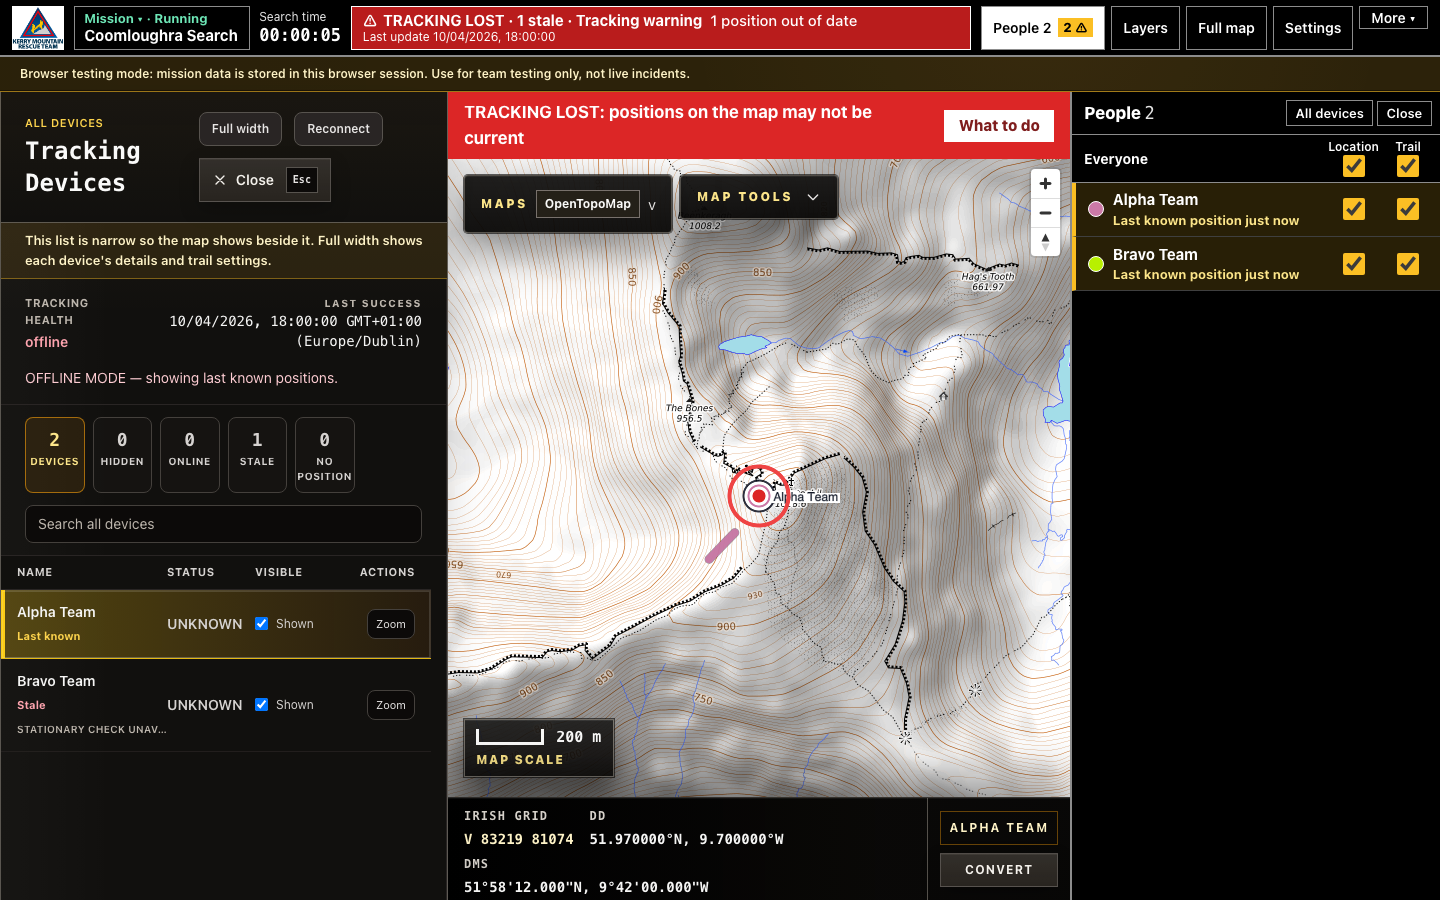
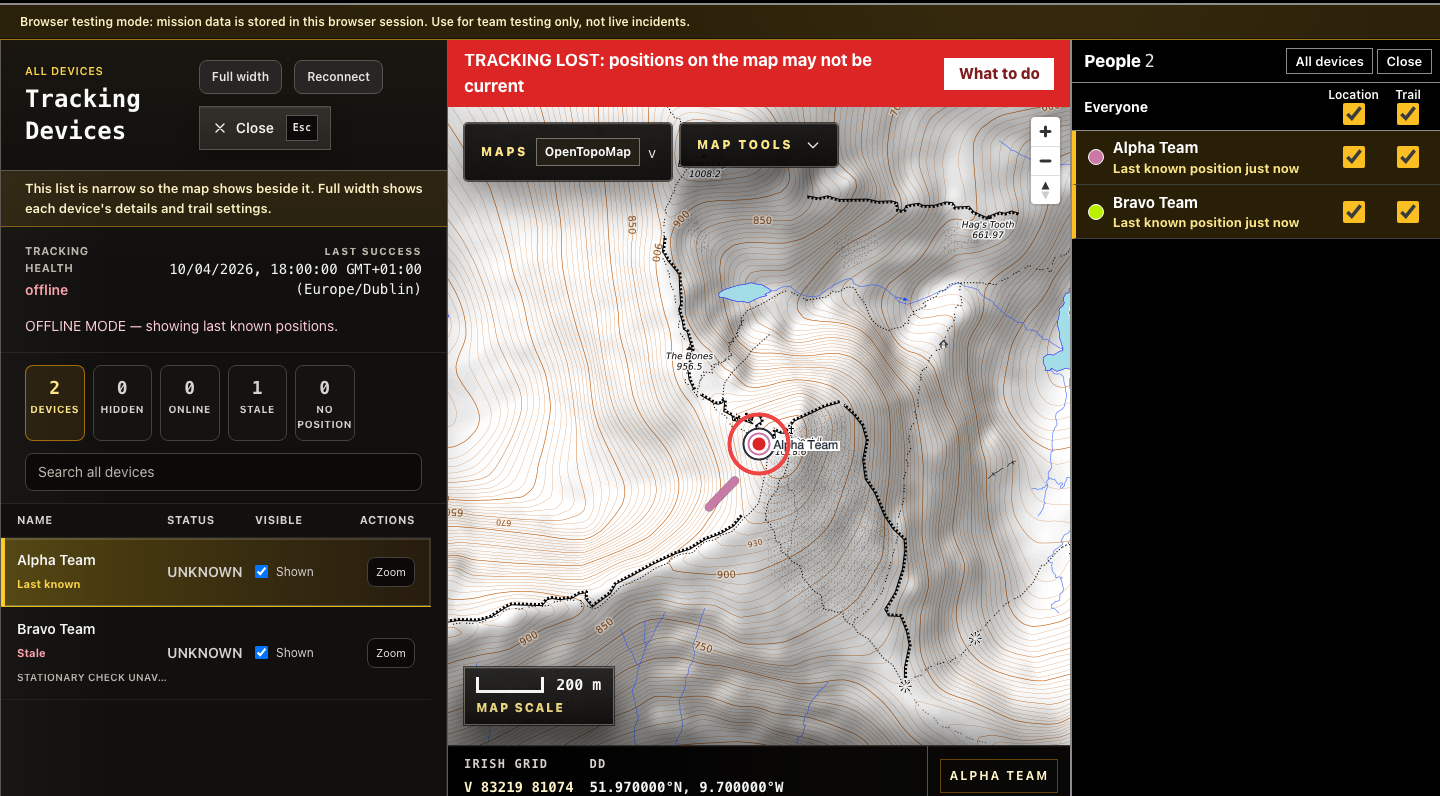
fix(map): bar says Map centre before the pointer and re-reads it on camera moves [DON-372]
Codex round 1:
- The startup map centre was labelled Cursor position. The bar now says
  Map centre until the pointer is over the map, and keeps that reading on
  the centre as the map moves.
- With the pointer resting on the map, a camera move (Go to, wheel zoom)
  re-reads the ground under it instead of leaving the old spot on the bar.
- The manual's docked All devices image showed ALPHA TEAM beside the grid;
  the bar is cropped out of it and its alt text adjusted.
- New E2E: Go to from People, then the pointer elsewhere, checks the bar's
  grid is the ground under the pointer and names nobody; startup Map centre
  and the resting-pointer re-read are checked in map.spec. The recovery test
  asserts the target was queued and then expired; the marker helper needs
  the dot layer and tolerates a missing style.

diff --git a/public/manual/index.html b/public/manual/index.html
@@ -524,7 +524,7 @@
             <tbody>
               <tr><td><strong>Top bar</strong></td><td>From the left: the <strong>Mission</strong> button (name and state: <em>Start a mission</em>, <em>Running</em>, <em>PAUSED</em> or <em>Needs resuming</em>; press it to pause, finish or add people) with the search clock; the <strong>tracking line</strong>, which says in plain words whether positions are arriving and when the last one did (press it for what to do). When something is wrong it starts with a short word for each problem, most urgent first: people (out of date, not moving, rejected reports) before connection, mission record, history and cache problems, for example <em>2 stale · 1 rejected · History failed</em>; if they do not all fit it ends <em>+2 more</em>. Press it for the full words; <strong>People</strong>, <strong>Layers</strong> and <strong>Full map</strong>; then <strong>Weather</strong>, <strong>Settings</strong> and <strong>More</strong> (Review and replay, Diagnostics, Help, Theme). On narrower screens the team logo is hidden to leave room for the tracking line.</td></tr>
               <tr><td><strong>Alarm bar</strong></td><td>A flashing red bar across the top of the map when the map cannot be trusted: tracking lost, the mission paused, or the mission record failing. It stays until the cause is fixed. <strong>What to do</strong> opens the Tracking panel. If Settings, Diagnostics or All devices is open, it closes that first; Settings asks before losing unsaved changes, and Keep editing leaves it open.</td></tr>
-              <tr><td><strong>Map</strong></td><td>Top left: <strong>Maps</strong> (which map) and <strong>Map Tools</strong> (draw, measure). Map Tools stops above the map scale and the coordinate bar and scrolls inside on a small screen. Bottom: scale, and the <strong>Cursor position</strong> (where the mouse is, never a person) in <strong>DD</strong>, <strong>Irish Grid</strong> and <strong>DMS</strong>, with a <strong>Convert</strong> button.</td></tr>
+              <tr><td><strong>Map</strong></td><td>Top left: <strong>Maps</strong> (which map) and <strong>Map Tools</strong> (draw, measure). Map Tools stops above the map scale and the coordinate bar and scrolls inside on a small screen. Bottom: scale, and the <strong>Cursor position</strong> (where the mouse is, never a person; <strong>Map centre</strong> until you move the mouse over the map) in <strong>DD</strong>, <strong>Irish Grid</strong> and <strong>DMS</strong>, with a <strong>Convert</strong> button.</td></tr>
               <tr><td><strong>Side panel</strong></td><td>One panel at a time, on the right: <strong>People</strong> (who is out, who needs a look), <strong>Layers</strong>, <strong>Tracking</strong> (opened from the tracking line) or <strong>Mission</strong> (opened from the Mission button). <strong>Close</strong> or <strong>Full map</strong> gives the map the whole width. With People closed, anyone who needs a look is listed over the map. Before Start, while a mission waits to be resumed and after Finish, <strong>Layers</strong> (with GPX and helicopters) and <strong>Tracking</strong> still open; <strong>People</strong> is greyed out until a mission is running.</td></tr>
             </tbody>
           </table>
@@ -812,7 +812,7 @@
             <figcaption>Open it with <strong>All devices</strong> at the top of the People panel. Close it with <strong>Close</strong> or Esc.</figcaption>
           </figure>
           <figure class="screenshot">
-            <img src="assets/devices-docked.png" alt="All devices narrowed to a strip on the left after Zoom, with the map moved beside it, the device ringed in the middle, the coordinate readouts in full below, and Stale written under a stale device's name" />
+            <img src="assets/devices-docked.png" alt="All devices narrowed to a strip on the left after Zoom, with the map moved beside it, the device ringed in the middle, and Stale written under a stale device's name" />
             <figcaption>After <strong>Zoom</strong>: the list narrows and the device is ringed on the map beside it. A stale position says <em>Stale</em> under the name.</figcaption>
           </figure>
           <ul>
@@ -943,8 +943,9 @@
           <p>
             The strip at the bottom, headed <strong>Cursor position</strong>, shows the position under the mouse
             cursor as <strong>DD</strong> (latitude/longitude), <strong>Irish Grid</strong> (TM65) and
-            <strong>DMS</strong>. It is never a person's position, even after you go to someone from People:
-            do not read it out as where a person is. Outside Ireland
+            <strong>DMS</strong>. Before you move the mouse over the map it is headed <strong>Map centre</strong>
+            and shows the middle of the map instead. It is never a person's position, even after you go to
+            someone from People: do not read it out as where a person is. Outside Ireland
             the grid field says <strong>Outside Ireland</strong> rather than inventing a reference.
             The <strong>Map scale</strong> bar at the bottom left is split into black and white blocks, like the scale on an
             OS map. The numbers under it mark round distances from 0, for example <strong>0 · 250 · 500 m</strong>, or

diff --git a/tests/e2e/devices-workspace.spec.ts b/tests/e2e/devices-workspace.spec.ts
@@ -37,6 +37,35 @@ test.describe('M19 devices workspace', () => {
     await expectCoordinateBarNamesNobody(page, 'Alpha Team')
   })
 
+  test('never shows a person\'s name beside the cursor\'s grid after Go to from People [DON-372]', async ({ page }) => {
+    await page.getByRole('button', { name: 'Go to Alpha Team on the map' }).click()
+    await expectMapTargetAt(page, [-9.74406, 51.99917])
+    await expect.poll(() => page.evaluate(() => window.__SARTRACKER_MAP__!.isMoving())).toBe(false)
+
+    // Point well away from Alpha Team, then read the bar.
+    const canvas = await page.locator('.maplibregl-canvas').boundingBox()
+    expect(canvas).not.toBeNull()
+    const pointer = { x: canvas!.x + canvas!.width * 0.85, y: canvas!.y + canvas!.height * 0.3 }
+    await page.mouse.move(pointer.x, pointer.y)
+    const grids = await page.evaluate(async ({ x, y }) => {
+      const { formatIrishGridReference, wgs84ToTM65 } = await import('/src/lib/coordinates.ts')
+      const map = window.__SARTRACKER_MAP__!
+      const box = map.getCanvas().getBoundingClientRect()
+      const cursor = map.unproject([x - box.left, y - box.top])
+      return {
+        cursor: formatIrishGridReference(...wgs84ToTM65(cursor.lat, cursor.lng)),
+        alpha: formatIrishGridReference(...wgs84ToTM65(51.99917, -9.74406)),
+      }
+    }, pointer)
+    expect(grids.cursor).not.toBe(grids.alpha)
+    // The bar shows the ground under the pointer (within a pixel's few metres), not Alpha Team's grid.
+    await expect.poll(async () => gridDistanceMetres(await page.getByTestId('coords-grid').innerText(), grids.cursor))
+      .toBeLessThan(10)
+    expect(gridDistanceMetres(grids.cursor, grids.alpha)).toBeGreaterThan(100)
+    await expectCoordinateBarNamesNobody(page, 'Alpha Team')
+    await expect(page.getByTestId('coordinate-display')).not.toContainText(grids.alpha)
+  })
+
   test('unmounts the workspace immediately when the operator closes it [DON-260]', async ({
     page,
   }) => {
@@ -1167,6 +1196,19 @@ async function seedTrackingWorkspace(page: import('@playwright/test').Page) {
  * Once the camera settles, says whether a [longitude, latitude] is drawn inside
  * the map canvas and right of the docked All devices list (DON-368).
  */
+/** Distance in metres between two same-square Irish Grid references such as "V 81215 84740". */
+function gridDistanceMetres(first: string, second: string): number {
+  const parse = (reference: string) => {
+    const match = /^([A-Z]) (\d{5}) (\d{5})$/u.exec(reference.trim())
+    if (match === null) throw new Error(`Not a 10-figure grid reference: ${reference}`)
+    return { square: match[1], easting: Number(match[2]), northing: Number(match[3]) }
+  }
+  const a = parse(first)
+  const b = parse(second)
+  if (a.square !== b.square) return Number.POSITIVE_INFINITY
+  return Math.hypot(a.easting - b.easting, a.northing - b.northing)
+}
+
 async function targetPlacement(page: import('@playwright/test').Page, target: [number, number]): Promise<string> {
   return page.evaluate((lngLat) => {
     const map = (window as Window & { __SARTRACKER_MAP__: import('maplibre-gl').Map }).__SARTRACKER_MAP__

diff --git a/src/components/coordinate-bar.tsx b/src/components/coordinate-bar.tsx
@@ -12,6 +12,14 @@ import { useCoordinateToolStore } from '../features/coordinates/coordinate-tool-
 type CoordinateBarProps = {
   readonly latitude: number | null
   readonly longitude: number | null
+  /** Whose position the readouts are: under the pointer, or the map centre before any pointer. */
+  readonly source: 'cursor' | 'map-centre'
+}
+
+/** Caption naming whose position the readouts are, so none can be taken for a person's (DON-372). */
+const READOUT_OWNER_CAPTION: Record<CoordinateBarProps['source'], string> = {
+  cursor: 'Cursor position',
+  'map-centre': 'Map centre',
 }
 
 /** Height of the coordinate bar; map chrome above it (scale, Map Tools) keeps clear of it. */
@@ -24,12 +32,14 @@ type CoordinateDisplayParts = {
 }
 
 /**
- * Bottom strip showing the position under the cursor (DD, Irish Grid, DMS) and the Convert button.
- * Every readout here belongs to the cursor, never to a person or marker: no name may sit beside
+ * Bottom strip showing the position under the cursor (DD, Irish Grid, DMS) and the Convert button;
+ * before the pointer is over the map it shows the map centre and says so. Every readout here
+ * belongs to the cursor or map centre, never to a person or marker: no name may sit beside
  * these values, or a coordinator could read the cursor's grid over the radio as someone's
  * position (DON-372). A person's own position belongs with that person, with its age.
  */
-export function CoordinateBar({ latitude, longitude }: CoordinateBarProps) {
+export function CoordinateBar({ latitude, longitude, source }: CoordinateBarProps) {
+  const ownerCaption = READOUT_OWNER_CAPTION[source]
   const openDialog = useCoordinateToolStore((state) => state.openDialog)
   const barRef = useRef<HTMLDivElement>(null)
 
@@ -57,7 +67,7 @@ export function CoordinateBar({ latitude, longitude }: CoordinateBarProps) {
   const dmsDisplay = displays?.dmsDisplay ?? null
   const content =
     wgs84Display !== null && gridDisplay !== null && dmsDisplay !== null
-      ? `Cursor position: ${wgs84Display}  |  ${gridDisplay}  |  ${dmsDisplay}`
+      ? `${ownerCaption}: ${wgs84Display}  |  ${gridDisplay}  |  ${dmsDisplay}`
       : '—'
 
   return (
@@ -72,13 +82,12 @@ export function CoordinateBar({ latitude, longitude }: CoordinateBarProps) {
         <div aria-hidden="true" className="sar-coordinate-spacer" />
 
         <div className="flex min-w-0 flex-col justify-center">
-          {/* Names whose position the readouts are, so none can be taken for a person's (DON-372). */}
           <p
             aria-hidden="true"
             className="sar-meta-label sar-coordinate-label px-4 text-center leading-none max-[1320px]:px-3"
             data-testid="coordinate-readout-owner"
           >
-            Cursor position
+            {ownerCaption}
           </p>
           <div
             className="sar-coordinate-readouts flex min-w-0 items-center justify-center gap-4 overflow-hidden px-4 max-[1320px]:gap-2 max-[1320px]:px-3"

diff --git a/tests/e2e/helpers/map-target.ts b/tests/e2e/helpers/map-target.ts
@@ -1,17 +1,25 @@
 import { expect, type Page } from '@playwright/test'
 
 /**
- * Reads the go-to target marker the map is drawing, as [longitude, latitude], or null when none.
- * The coordinate bar no longer names the target (DON-372), so the marker itself is the evidence.
+ * Reads the go-to target marker the map is drawing, as [longitude, latitude], or null when none
+ * is drawn: no map, no style, no marker layer or an empty marker source. The coordinate bar no
+ * longer names the target (DON-372), so the drawn marker itself is the evidence.
  */
 export async function mapTargetMarker(page: Page): Promise<[number, number] | null> {
   return page.evaluate(() => {
     const map = window.__SARTRACKER_MAP__
-    const source = map?.getSource('coordinate-target') as { serialize?: () => { data?: unknown } } | undefined
-    const data = source?.serialize?.().data as GeoJSON.FeatureCollection | undefined
-    const point = data?.features?.[0]?.geometry
-    if (point === undefined || point.type !== 'Point') return null
-    return [point.coordinates[0]!, point.coordinates[1]!]
+    if (map === undefined) return null
+    try {
+      if (map.getLayer('coordinate-target-dot') === undefined) return null
+      const source = map.getSource('coordinate-target') as { serialize?: () => { data?: unknown } } | undefined
+      const data = source?.serialize?.().data as GeoJSON.FeatureCollection | undefined
+      const point = data?.features?.[0]?.geometry
+      if (point === undefined || point.type !== 'Point') return null
+      return [point.coordinates[0]!, point.coordinates[1]!]
+    } catch {
+      // The style can be missing during a basemap change; that is "no marker drawn".
+      return null
+    }
   })
 }
 
@@ -25,8 +33,11 @@ export async function expectMapTargetAt(page: Page, coordinate: [number, number]
   }, { timeout: 10_000 }).toBe(true)
 }
 
-/** The bar's readouts belong to the cursor: no person or target name may sit beside them (DON-372). */
+/**
+ * The bar's readouts belong to the cursor (or the map centre before any pointer): no person or
+ * target name may sit beside them, and the bar says whose position it shows (DON-372).
+ */
 export async function expectCoordinateBarNamesNobody(page: Page, name: string): Promise<void> {
   await expect(page.getByTestId('coordinate-display')).not.toContainText(name, { ignoreCase: true })
-  await expect(page.getByTestId('coordinate-readout-owner')).toHaveText('Cursor position')
+  await expect(page.getByTestId('coordinate-readout-owner')).toHaveText(/^(Cursor position|Map centre)$/u)
 }

diff --git a/src/features/map/use-map-instance.ts b/src/features/map/use-map-instance.ts
@@ -33,11 +33,17 @@ import { recordDiagnosticEvent } from '../diagnostics/diagnostic-event-log'
 export type HoverCoordinate = {
   readonly latitude: number | null
   readonly longitude: number | null
+  /**
+   * Whose position this is: the ground under the pointer, or the map centre before the pointer
+   * has been over the map. The bar says which, so neither is read out as a person's (DON-372).
+   */
+  readonly source: 'cursor' | 'map-centre'
 }
 
 const EMPTY_HOVER_COORDINATE: HoverCoordinate = {
   latitude: null,
   longitude: null,
+  source: 'cursor',
 }
 
 export type MapInstanceController = {
@@ -208,11 +214,14 @@ export function useMapInstance(): MapInstanceController {
 
     map.addControl(new maplibregl.NavigationControl({ visualizePitch: true }), 'top-right')
     map.on('load', () => {
+      // Until the pointer is over the map, the bar shows the map centre and says so.
       const center = map.getCenter()
-      setHoverCoordinate({
+      pendingHoverCoordinateRef.current = {
         latitude: center.lat,
         longitude: center.lng,
-      })
+        source: 'map-centre',
+      }
+      setHoverCoordinate(pendingHoverCoordinateRef.current)
     })
     map.on('idle', () => {
       if (styleFailureRef.current !== null) return
@@ -269,14 +278,31 @@ export function useMapInstance(): MapInstanceController {
       }
       hoverCoordinateFrameRef.current = window.requestAnimationFrame(publishPendingHoverCoordinate)
     }
+    // Where the pointer rests on the map, so a camera move (Go to, zoom) re-reads the ground under
+    // it instead of leaving the previous spot on the bar as the cursor position (DON-372).
+    let pointerPoint: maplibregl.Point | null = null
     map.on('mousemove', (event) => {
+      pointerPoint = event.point
       scheduleHoverCoordinate({
         latitude: event.lngLat.lat,
         longitude: event.lngLat.lng,
+        source: 'cursor',
       })
     })
     map.on('mouseleave', () => {
+      pointerPoint = null
       scheduleHoverCoordinate(EMPTY_HOVER_COORDINATE)
+    })
+    map.on('move', () => {
+      if (pointerPoint !== null) {
+        const ground = map.unproject(pointerPoint)
+        scheduleHoverCoordinate({ latitude: ground.lat, longitude: ground.lng, source: 'cursor' })
+        return
+      }
+      if (pendingHoverCoordinateRef.current.source === 'map-centre') {
+        const center = map.getCenter()
+        scheduleHoverCoordinate({ latitude: center.lat, longitude: center.lng, source: 'map-centre' })
+      }
     })
 
     mapRef.current = map

diff --git a/tests/unit/coordinate-bar.test.ts b/tests/unit/coordinate-bar.test.ts
@@ -22,7 +22,7 @@ describe('CoordinateBar', () => {
   })
 
   it('keeps operator coordinates visible without low-use CRS cells', () => {
-    render(React.createElement(CoordinateBar, { latitude: 52.274681, longitude: -9.530912 }))
+    render(React.createElement(CoordinateBar, { latitude: 52.274681, longitude: -9.530912, source: 'cursor' }))
 
     expect(text('[data-testid="coordinate-display"]')).toContain('52.274681')
     expect(text('[data-testid="coordinate-display"]')).toContain('52°16')
@@ -39,7 +39,7 @@ describe('CoordinateBar', () => {
 
   it('renders a safe placeholder instead of throwing for impossible coordinate props', () => {
     expect(() =>
-      render(React.createElement(CoordinateBar, { latitude: 95, longitude: -190 })),
+      render(React.createElement(CoordinateBar, { latitude: 95, longitude: -190, source: 'cursor' })),
     ).not.toThrow()
 
     expect(text('[data-testid="coordinate-display"]')).toContain('—')
@@ -49,7 +49,7 @@ describe('CoordinateBar', () => {
   it('never puts a selected person\'s name beside the cursor\'s grid reference [DON-372]', () => {
     // Searcher 01 is selected at their stored position; the pointer is somewhere else.
     act(() => useMapTargetStore.getState().queueTarget(51.99917, -9.74406, 'Searcher 01'))
-    render(React.createElement(CoordinateBar, { latitude: 52.274681, longitude: -9.530912 }))
+    render(React.createElement(CoordinateBar, { latitude: 52.274681, longitude: -9.530912, source: 'cursor' }))
 
     const bar = text('[data-testid="coordinate-display"]')
     expect(text('[data-testid="coords-grid"]')).toContain('Q')
@@ -58,6 +58,13 @@ describe('CoordinateBar', () => {
     // The readout says whose position it is: the cursor's.
     expect(text('[data-testid="coordinate-readout-owner"]')).toBe('Cursor position')
     expect(text('[data-testid="coords-combined"]')).toMatch(/^Cursor position: /)
+  })
+
+  it('says Map centre, not Cursor position, before the pointer has been over the map [DON-372]', () => {
+    render(React.createElement(CoordinateBar, { latitude: 52.274681, longitude: -9.530912, source: 'map-centre' }))
+
+    expect(text('[data-testid="coordinate-readout-owner"]')).toBe('Map centre')
+    expect(text('[data-testid="coords-combined"]')).toMatch(/^Map centre: /)
   })
 
   function render(element: React.ReactElement): void {

diff --git a/tests/e2e/map.spec.ts b/tests/e2e/map.spec.ts
@@ -622,6 +622,33 @@ test.describe('M2 map shell', () => {
     })
   })
 
+  test('says Map centre until the pointer is over the map, then Cursor position [DON-372]', async ({ page }) => {
+    // Before any pointer, the readout is the map centre and must not be labelled as the cursor.
+    await page.waitForFunction(() => window.__SARTRACKER_MAP__?.loaded() === true, undefined, { timeout: 15_000 })
+    await expect(page.getByTestId('coordinate-readout-owner')).toHaveText('Map centre')
+    await expect(page.getByTestId('coords-combined')).toContainText('Map centre: ')
+    await page.getByTestId('ws-mission-close').click()
+    const canvas = await page.locator('.maplibregl-canvas').boundingBox()
+    expect(canvas).not.toBeNull()
+    const pointer = { x: Math.round(canvas!.x + canvas!.width * 0.8), y: Math.round(canvas!.y + canvas!.height * 0.5) }
+    await page.mouse.move(pointer.x, pointer.y)
+    await expect(page.getByTestId('coordinate-readout-owner')).toHaveText('Cursor position')
+    await expect(page.getByTestId('coords-combined')).toContainText('Cursor position: ')
+
+    // The camera moves under a resting pointer (Go to, wheel zoom): the bar re-reads the ground under it.
+    const before = await page.getByTestId('coords-grid').innerText()
+    await page.evaluate(() => window.__SARTRACKER_MAP__!.jumpTo({ center: [-9.464944, 52.179337] }))
+    await expect(page.getByTestId('coords-grid')).not.toHaveText(before)
+    const groundUnderPointer = await page.evaluate(async ({ x, y }) => {
+      const { formatIrishGridReference, wgs84ToTM65 } = await import('/src/lib/coordinates.ts')
+      const map = window.__SARTRACKER_MAP__!
+      const box = map.getCanvas().getBoundingClientRect()
+      const ground = map.unproject([x - box.left, y - box.top])
+      return formatIrishGridReference(...wgs84ToTM65(ground.lat, ground.lng))
+    }, pointer)
+    await expect(page.getByTestId('coords-grid')).toHaveText(groundUnderPointer)
+  })
+
   test('updates the coordinate bar on mouse move', async ({ page }) => {
     const mapContainer = page.getByTestId('map-container')
     const bounds = await mapContainer.boundingBox()

diff --git a/tests/e2e/map-navigation-recovery.spec.ts b/tests/e2e/map-navigation-recovery.spec.ts
@@ -74,8 +74,11 @@ test('a never-loaded target expires and cannot reappear when the map recovers [A
   await page.waitForFunction(() => window.__SARTRACKER_MAP__ !== undefined)
   await page.evaluate(() => window.__SARTRACKER_MAP__!.setStyle(null))
   await navigateTo(page, '52.179337', '-9.464944')
-  // The style is gone, so the target cannot attach; let its 30 s request lifetime run out.
+  // The style is gone, so the target is queued but cannot attach yet.
+  expect(await pendingTarget(page)).toEqual({ latitude: 52.179337, longitude: -9.464944, attached: false })
+  // Let its 30 s request lifetime run out.
   await page.clock.fastForward(30_001)
+  await expect.poll(() => pendingTarget(page)).toBeNull()
   await page.evaluate(() => window.__SARTRACKER_MAP__!.setStyle({ version: 8, sources: {}, layers: [
     { id: 'recovered-background', type: 'background', paint: { 'background-color': '#dde6e8' } },
   ] }))
@@ -169,6 +172,15 @@ test('latest repeated Go To survives delayed style loading and renders at the re
   await assertRenderedTarget(page, [-9.464944, 52.179337])
   await page.screenshot({ path: testInfo.outputPath('navigation-repeated.png') })
 })
+
+/** Reads the map's current go-to request from the running app's target store, or null when none. */
+async function pendingTarget(page: Page): Promise<{ latitude: number; longitude: number; attached: boolean } | null> {
+  return page.evaluate(async () => {
+    const { useMapTargetStore } = await import('/src/features/map/map-target-store.ts')
+    const target = useMapTargetStore.getState().activeTarget
+    return target === null ? null : { latitude: target.latitude, longitude: target.longitude, attached: target.attached }
+  })
+}
 
 /** Submits a real coordinate-converter navigation action. */
 async function navigateTo(page: Page, latitude: string, longitude: string): Promise<void> {

diff --git a/src/components/map-view.tsx b/src/components/map-view.tsx
@@ -82,6 +82,7 @@ function MapLibreMapView() {
         <CoordinateBar
           latitude={hoverCoordinate.latitude}
           longitude={hoverCoordinate.longitude}
+          source={hoverCoordinate.source}
         />
       ) : null}
       {focusModeActive ? (

diff --git a/src/components/leaflet-fallback-map-view.tsx b/src/components/leaflet-fallback-map-view.tsx
@@ -225,6 +225,7 @@ export function LeafletFallbackMapView() {
       <CoordinateBar
         latitude={hoverCoordinate.latitude}
         longitude={hoverCoordinate.longitude}
+        source="cursor"
       />
     </div>
   )
